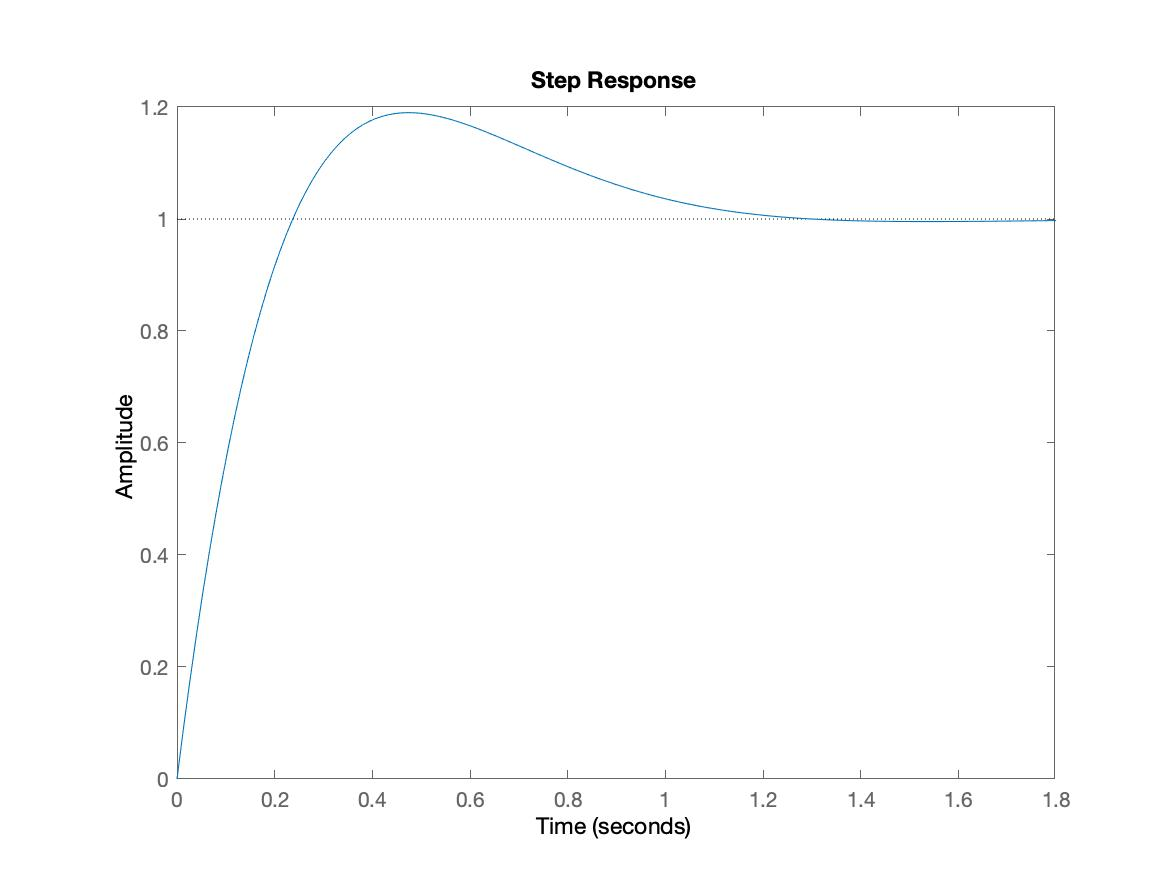
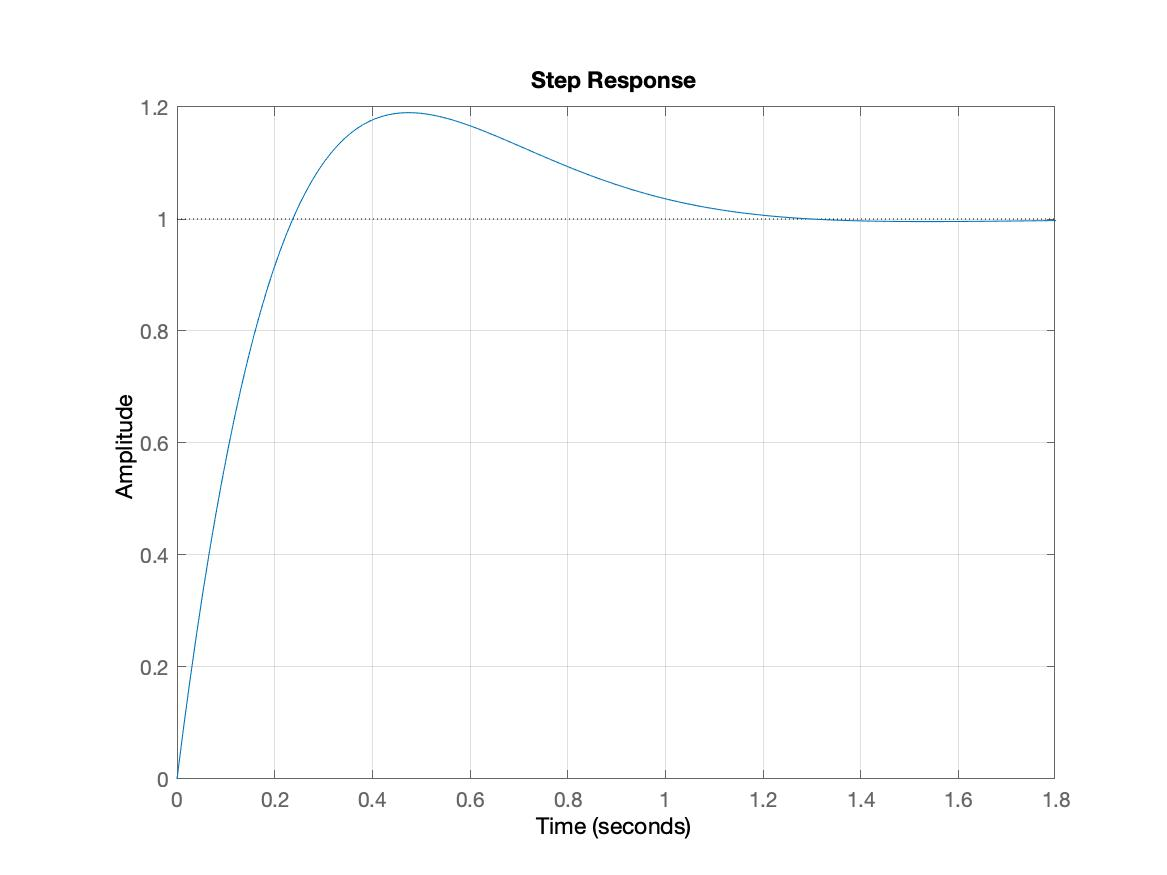
gitignore

diff --git a/MATLAB/analysis.m b/MATLAB/analysis.m
@@ -1,111 +1,124 @@
 % Define some constants
-i = 1;
-STEPOL = [1,0,0,0,0,0,0];
-STEPCL = [0,1,0,0,0,0,0];
-RLOL = [0,0,1,0,0,0,0];
-RLCL = [0,0,0,1,0,0,0];
-BODE = [0,0,0,0,1,0,0];
-NYQUIST = [0,0,0,0,0,1,0];
-DISTURBANCE = [0,0,0,0,0,0,1];
+figure(1);
+% figure(2);
+% figure(3);
+% figure(4);
+% figure(5);
+
+STEP =        [1,0,0,0,0];
+RL =          [0,1,0,0,0];
+BODE =        [0,0,1,0,0];
+NYQUIST =     [0,0,0,1,0];
+DISTURBANCE = [0,0,0,0,1];
+DEFUALT = STEP + DISTURBANCE;
 
 % % initial open loop analysis
-% D0G = new_system(initG(), 1, i, 'D0', STEPOL + RLOL + BODE + NYQUIST + DISTURBANCE); % Add constants to have multiple outputs
-% i = analyze_system(D0G);
-% 
-% % first iteration
+% D0G = new_system(initG(), 'D0', STEP); % Add constants to have multiple outputs
+% analyze_system(D0G);
+% % % 
+% % % % first iteration
 % D1 = tf('s') + 3;
-% D1G = new_system(initG(), D1, i, 'D1', STEPCL + RLCL + DISTURBANCE);
+% D1G = new_system(initG(), D1, i, 'D1', STEPCL + RLOL + BODE + NYQUIST + DISTURBANCE);
 % i = analyze_system(D1G);
-% 
-% % second iteration
+% % % 
+% % % % second iteration
 % D2 = tf('s') + 0.1;
-% D2G = new_system(initG(), D2, i, 'D2', STEPCL + RLCL + DISTURBANCE);
+% D2G = new_system(initG(), D2, i, 'D2', STEPCL + RLOL + BODE + NYQUIST + DISTURBANCE);
 % i = analyze_system(D2G);
+% % 
+% % % third iteration
+% D3 = tf('s') + 0.001;
+% D3G = new_system(initG(), D3, i, 'D3', STEPCL + RLOL + BODE + NYQUIST + DISTURBANCE);
+% i = analyze_system(D3G);
 % 
-% % third iteration
-D3 = tf('s') + 0.001;
-D3G = new_system(initG(), D3, i, 'D3', STEPCL + RLCL + DISTURBANCE + BODE + NYQUIST);
-i = analyze_system(D3G);
+syms x;
+figure(1);
+fplot(heaviside(x));
+grid on;
+hold on;
 
 D4 = (tf('s') + 0.01) * 5;
-sample = new_system(initG(), D4, i, 'D4', STEPCL + RLCL + DISTURBANCE);
-i = analyze_system(sample);
+D4G = feedback(D4 * initG(), 1);%new_system(feedback(D4 * initG(), 1), 'D4', STEP);
+plot_step(1, D4G);
 
-function i = analyze_system(data)
-    i = data.fign;
+Kp = 50;
+Kd = 25;
+Ki = 5;
+
+D5 = (Kd * tf('s')) + Kp + (Ki/tf('s'));
+D5G = feedback(D5 * initG(), 1);%new_system(feedback(D5 * initG(), 1), 'D5', STEP);
+% analyze_system(D5G);
+plot_step(1, D5G);
+D6G = new_system(initSS(), 'D6', STEP);
+% analyze_system(D6G);
+D6G = initSS();
+plot_step(1, D6G);
+legend({'Step', 'D4', 'D5', 'D6'})
+
+save_plots('D4-D5-D6-Comparison');
+
+function analyze_system(data)
     title = data.title;
-    sysol = data.G;
-    syscl = feedback(data.D * data.G, 1);
+    sys = data.G;
 
     % plot step response
-    if data.olstep == 1
-        plot_step(i, sysol, strcat(title, '-OL'));
-        i = i + 1;
-    end
-    if data.clstep == 1
-        plot_step(i, syscl, strcat(title, '-CL'));
-        i = i + 1;
+    if data.output(1) == 1
+        plot_step(1, sys);
     end
     % plot root locus
-    if data.olrl == 1
-        plot_rl(i, sysol, strcat(title, '-OL'));
-        i = i + 1;
-    end
-    if data.clrl == 1
-        plot_rl(i, syscl, strcat(title, '-CL'));
-        i = i + 1;
+    if data.output(2) == 1
+        plot_rl(2, sys);
     end
     % plot bode
-    if data.bode == 1
-        plot_bode(i, sysol, title);
-        i = i + 1;
+    if data.output(3) == 1
+        plot_bode(3, sysol, data.opts);
     end
     % plot nyquist
-    if data.nyquist == 1
-        plot_nyquist(i, sysol, title);
-        i = i + 1;
+    if data.output(4) == 1
+        plot_nyquist(4, sysol, title);
     end
-    if data.disturbance == 1
-        W = data.G / (1 + data.D * data.G);
-        plot_impulse(i, W, strcat(title, '-Disturbance'));
-        i = i + 1;
-    end
+%     if data.output(5) == 1
+%         W = data.G / (1 + data.D * data.G);
+%         plot_impulse(7, W);
+%     end
 end
 
-function plot_step(i, sys, title)
-    figure(i)
+function save_plots(title)
+    saveas(figure(1), strcat(title, '-Step.jpg'));
+    saveas(figure(2), strcat(title, '-RL.jpg'));
+    saveas(figure(3), strcat(title, '-Bode.jpg'));
+    saveas(figure(4), strcat(title, '-Nyquist.jpg'));
+    saveas(figure(5), strcat(title, '-Disturbance.jpg'));
+end
+
+function plot_step(i, sys)
     step(sys)
-    saveas(figure(i), strcat(title, '-Step.jpg'));
-    disp(title);
+    grid on;
+    hold on;
     stepinfo(sys)
 end
 
-function plot_rl(i, sys, title)
-    figure(i)
+function plot_rl(i, sys)
     rlocus(sys)
     grid on;
-    saveas(figure(i), strcat(title, '-RL.jpg'));
 end
 
-function plot_bode(i, sys, title)
-    figure(i)
-    bode(sys)
-    saveas(figure(i), strcat(title, '-Bode.jpg'));
+function plot_bode(i, sys, opts)
+    bode(sys, opts)
+    grid on;
 end
 
-function plot_nyquist(i, sys, title)
-    figure(i)
+function plot_nyquist(i, sys)
     nyquist(sys)
-    saveas(figure(i), strcat(title, '-Nyquist.jpg'));
+    grid on;
 end
 
-function plot_impulse(i, sys, title)
-    figure(i)
+function plot_impulse(i, sys)
     impulse(sys)
-    saveas(figure(i), strcat(title, '-Impulse.jpg'));
+    grid on;
 end
 
-function sys = new_system(G, D, i, title, output)
+function sys = new_system(G, title, output)
     % This function creates a struct of data
     % to be passed to an analytical function.
     % It helps keep track of different iterations
@@ -119,30 +132,32 @@ function sys = new_system(G, D, i, title, output)
     sys = struct();
     % Set the data
     sys.G = G;
-    sys.D = D;
-    sys.fign = i;
     sys.opts = bopts;
     sys.title = title;
-
-    if length(output) < 7
-        sys.olstep = 0;
-        sys.clstep = 0;
-        sys.olrl = 0;
-        sys.clrl = 0;
-        sys.bode = 0;
-        sys.nyquist = 0;
-        sys.disturbance = 0;
-    else
-        sys.olstep = output(1);
-        sys.clstep = output(2);
-        sys.olrl = output(3);
-        sys.clrl = output(4);
-        sys.bode = output(5);
-        sys.nyquist = output(6);
-        sys.disturbance = output(7);
-    end
-
     sys.output = output;
+end
+
+function G = initSS()
+    A = [0, 1;
+         0 ,0];
+    B = [0; 5*9.81/7];
+    C = [1, 0];
+    D = [0];
+    Q = [100, 0;
+         0 ,1];
+    R = 0.1;
+    K_new = lqr(A, B, Q, R);
+    TT = [A, B; C, D];
+    N = TT \ [zeros(1, length(A)) 1]';
+    Nx = N(1:end-1);
+    Nu = N(end);
+    Nbar2 = Nu + K_new * Nx;
+
+    Acl = A - B * K_new;
+    Bcl = B * Nbar2;
+    Ccl = C;
+    Dcl = D;
+    G = ss(Acl, Bcl, Ccl, Dcl);
 end
 
 function G = initG()
